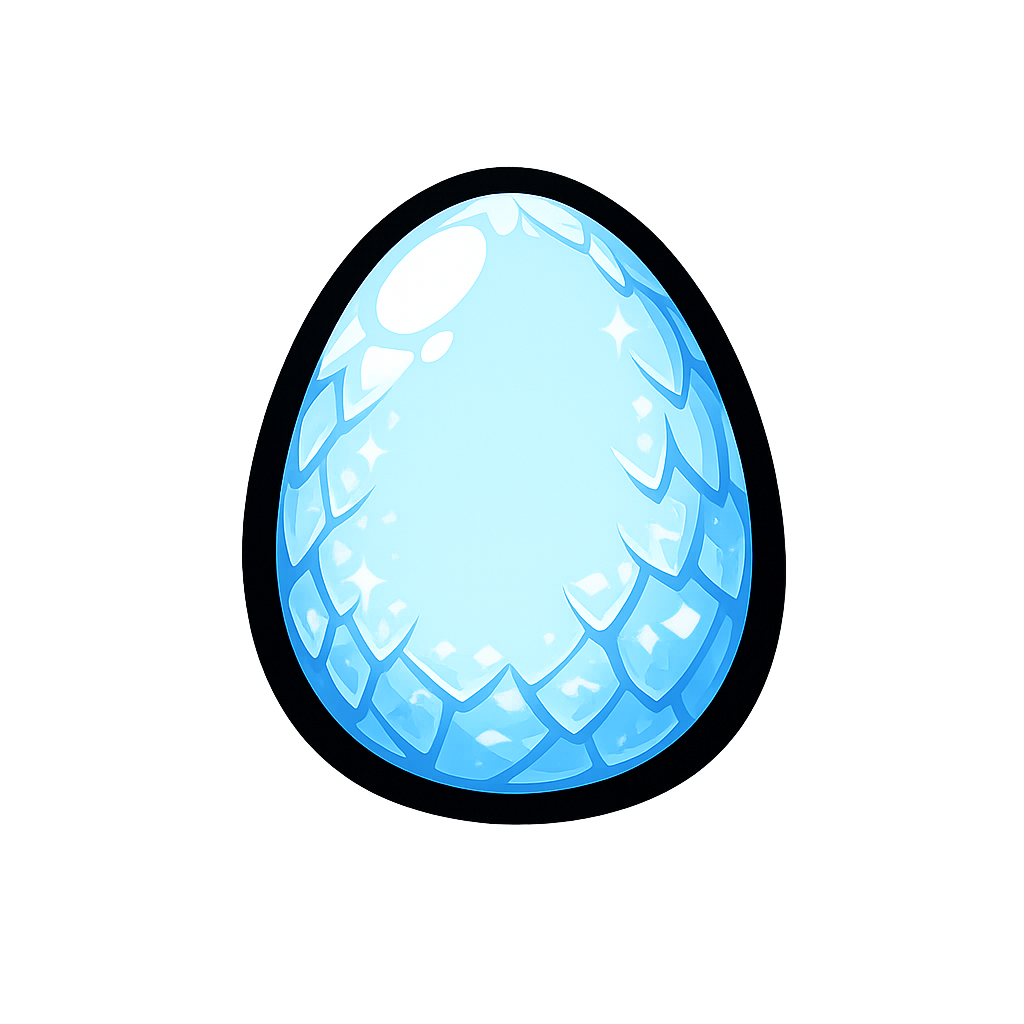
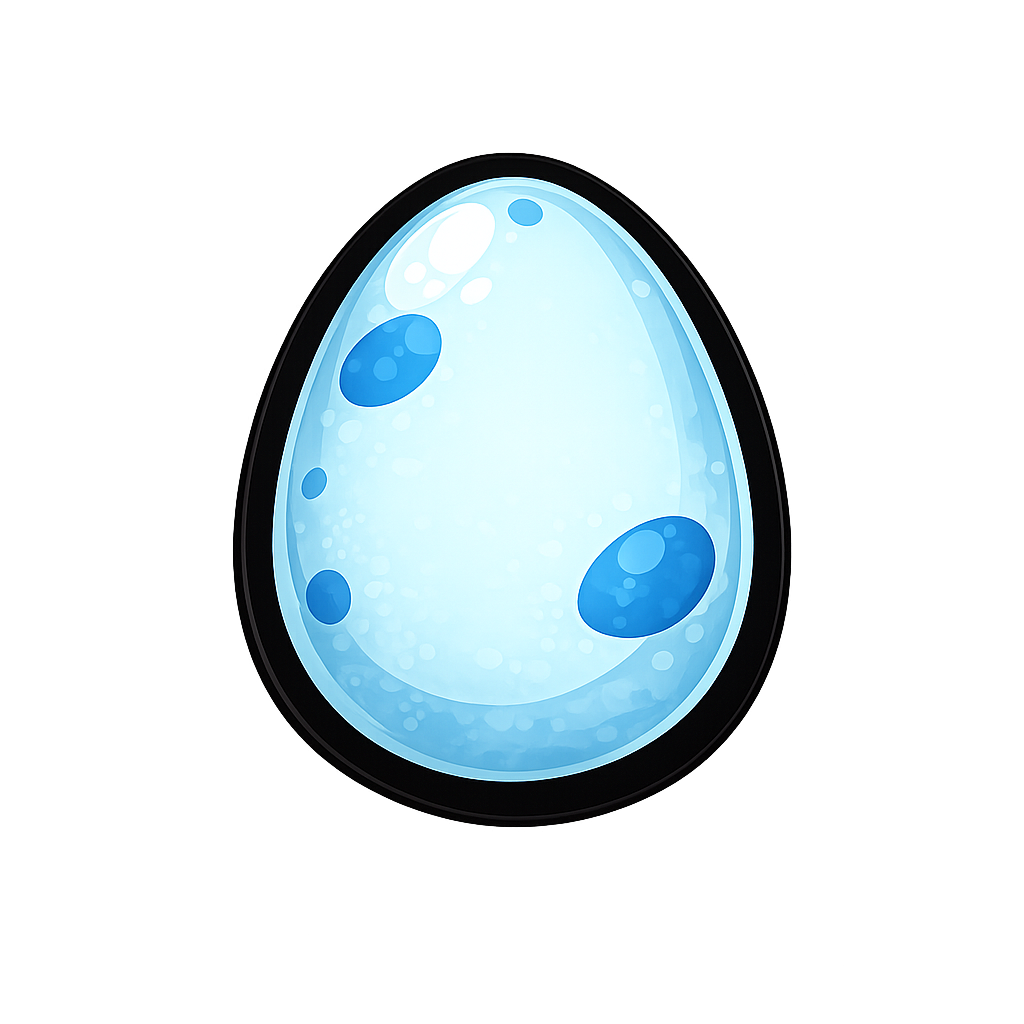
Replace egg/background assets with 17 visual tiers synced to player level
Eggs and backgrounds now change together at specific level thresholds
(VISUAL_TIERS in config.ts), paced from ~10min to ~238h of gameplay.
Old bg_*.jpg replaced with location_*.webp, egg count 15→17.

Changed region(s): [[0.2188, 0.125, 0.7812, 0.8125]]

diff --git a/src/scenes/BootScene.ts b/src/scenes/BootScene.ts
@@ -28,12 +28,12 @@ export class BootScene extends Scene {
             bar.width = 4 + 292 * value;
         });
 
-        // Backgrounds (bg_1 .. bg_14)
+        // Backgrounds (location_1 .. location_17)
         for (let i = 1; i <= TOTAL_BACKGROUNDS; i++) {
-            this.load.image(`bg_${i}`, `assets/backgrounds/bg_${i}.jpg`);
+            this.load.image(`bg_${i}`, `assets/backgrounds/location_${i}.webp`);
         }
 
-        // Eggs (egg_1 .. egg_15)
+        // Eggs (egg_1 .. egg_17)
         for (let i = 1; i <= TOTAL_EGGS; i++) {
             this.load.image(`egg_${i}`, `assets/eggs/egg_${i}.png`);
         }
@@ -44,6 +44,15 @@ export class BootScene extends Scene {
         this.load.audio('sfx_wobble', 'assets/audio/sfx_wobble.mp3');
         this.load.audio('sfx_reveal', 'assets/audio/sfx_reveal.mp3');
         this.load.audio('sfx_new_pet', 'assets/audio/sfx_new_pet.mp3');
+
+        // UI assets
+        this.load.image('ui_roll', 'assets/ui/roll.png');
+        this.load.image('ui_collections', 'assets/ui/collections.png');
+        this.load.image('ui_x2chance', 'assets/ui/x2chance.png');
+        this.load.image('ui_x3chance', 'assets/ui/x3chance.png');
+        this.load.image('ui_x5chance', 'assets/ui/x5chance.png');
+        this.load.image('ui_x5chance_ready', 'assets/ui/x5chance_ready.png');
+        this.load.image('ui_auto', 'assets/ui/auto.png');
 
         // Pet images
         for (const pet of PETS) {

diff --git a/src/data/eggs.ts b/src/data/eggs.ts
@@ -1,7 +1,8 @@
 import { EggTier, PetDef } from '../types';
 import { PETS } from './pets';
+import { getVisualTier, VISUAL_TIERS } from '../core/config';
 
-export const TOTAL_EGGS = 15;
+export const TOTAL_EGGS = VISUAL_TIERS.length;
 
 export const EGG_TIERS: EggTier[] = [
     { id: 1, levelMin: 1,  levelMax: 5,  filter: 0 },
@@ -18,10 +19,9 @@ export function getEggTierForLevel(level: number): EggTier {
     return EGG_TIERS[0];
 }
 
-/** Egg image key for a given level (alternates with background changes) */
+/** Egg image key for a given level (changes at VISUAL_TIERS thresholds) */
 export function getEggImageKey(level: number): string {
-    const idx = Math.min(1 + Math.ceil((level - 1) / 2), TOTAL_EGGS);
-    return `egg_${idx}`;
+    return `egg_${getVisualTier(level)}`;
 }
 
 export function getEligiblePets(eggTier: EggTier): PetDef[] {

diff --git a/src/core/config.ts b/src/core/config.ts
@@ -112,6 +112,19 @@ export const BONUS_PANEL = {
 
 export const AUTOROLL_INTERVAL = 500;
 
+/** Level thresholds where egg + background visuals change (17 tiers) */
+export const VISUAL_TIERS = [
+    1, 12, 22, 35, 50, 70, 100, 140, 200, 280, 400, 550, 750, 1000, 1400, 2000, 3000,
+];
+
+/** Get visual tier index (1-based) for a given player level */
+export function getVisualTier(level: number): number {
+    for (let i = VISUAL_TIERS.length - 1; i >= 0; i--) {
+        if (level >= VISUAL_TIERS[i]) return i + 1;
+    }
+    return 1;
+}
+
 export function xpForLevel(level: number): number {
     return Math.floor(XP_BASE * Math.pow(XP_MULTIPLIER, level - 1));
 }

diff --git a/src/data/backgrounds.ts b/src/data/backgrounds.ts
@@ -1,7 +1,8 @@
-export const TOTAL_BACKGROUNDS = 14;
+import { getVisualTier, VISUAL_TIERS } from '../core/config';
 
-/** Background image key for a given level (alternates with egg changes) */
+export const TOTAL_BACKGROUNDS = VISUAL_TIERS.length;
+
+/** Background image key for a given level (changes at VISUAL_TIERS thresholds) */
 export function getBgImageKey(level: number): string {
-    const idx = Math.min(1 + Math.floor((level - 1) / 2), TOTAL_BACKGROUNDS);
-    return `bg_${idx}`;
+    return `bg_${getVisualTier(level)}`;
 }

diff --git a/CLAUDE.md b/CLAUDE.md
@@ -95,7 +95,7 @@ src/
 
 **Resolution:** 836x470 (Poki-recommended 16:9). Phaser Scale.FIT fills the canvas on all devices.
 
-**Testing:** Always use Playwright MCP to test the game. At the start of every session, navigate to `http://localhost:8081/` via Playwright to verify the dev server is running. If it fails, ask the user to start it. After every code change, reload the page in Playwright and take a screenshot to verify visuals. Use `browser_console_messages` to check for errors. Click UI elements (ROLL button, Collection, etc.) to test interactions.
+**Testing:** Always use Playwright MCP to test the game. At the start of every session, navigate to `http://localhost:8080/` via Playwright to verify the dev server is running. Before launching Chrome, check if it's already open (Playwright will fail with a resource access error if Chrome is running). If it fails, ask the user to close Chrome or start the dev server. After every code change, reload the page in Playwright and take a screenshot to verify visuals. Use `browser_console_messages` to check for errors. Click UI elements (ROLL button, Collection, etc.) to test interactions.
 
 ## Key Constraints
 
